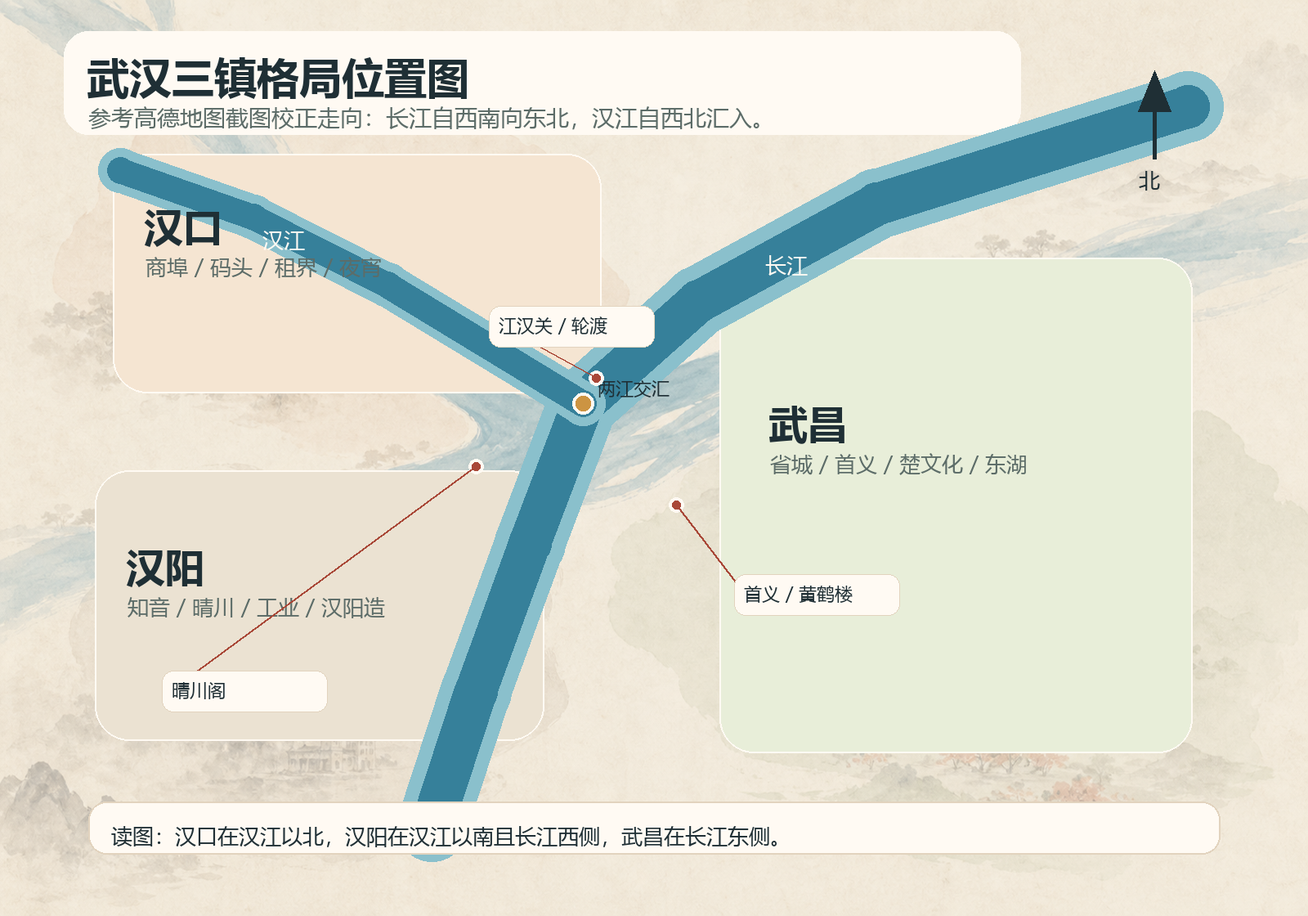
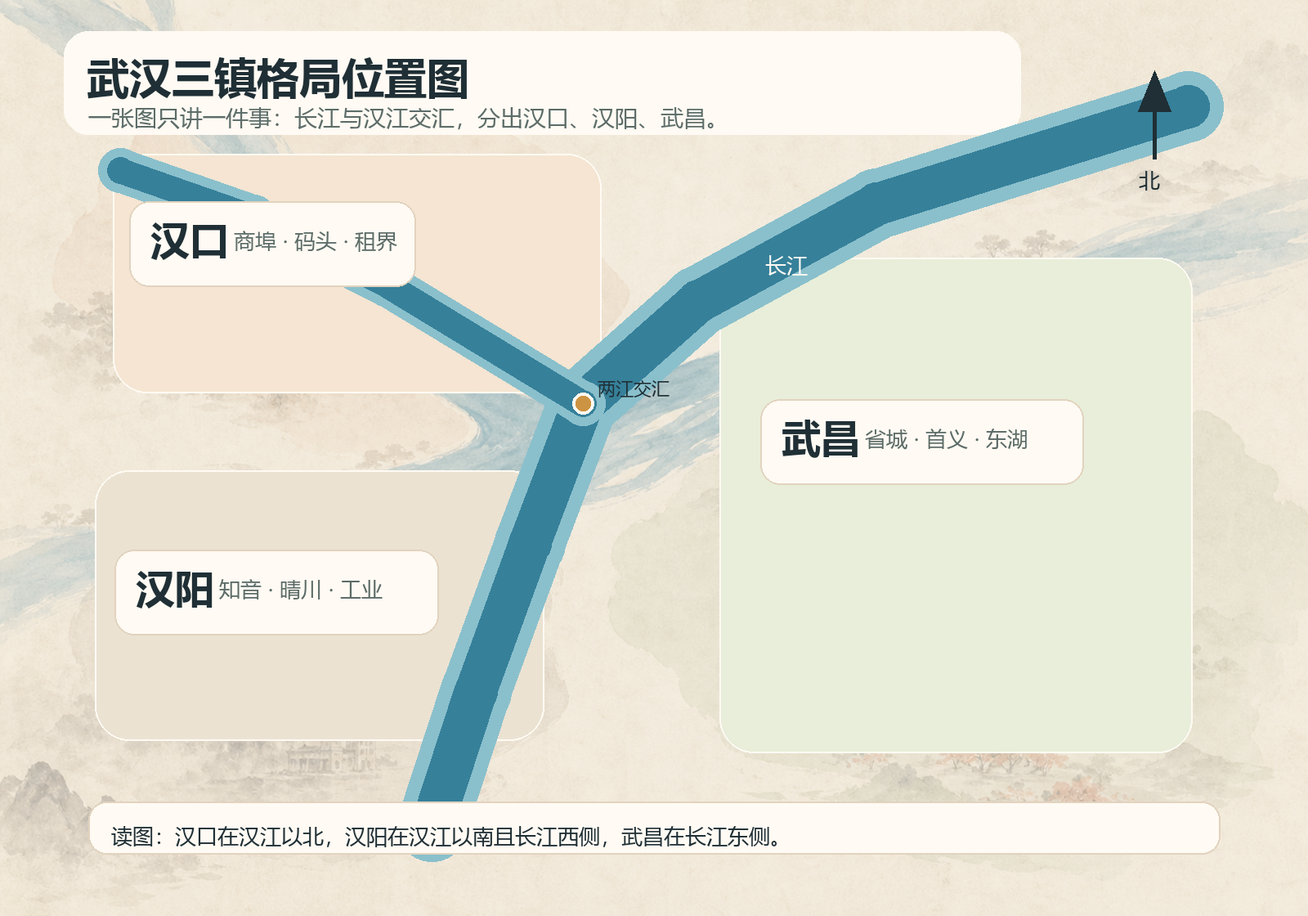
Prepare Wuhan guide v1

diff --git a/index.html b/index.html
@@ -19,7 +19,7 @@
     h1{font-size:clamp(42px,7vw,78px);line-height:1.02;letter-spacing:-.06em;margin:18px 0;color:#15262c}h2{font-size:clamp(30px,4vw,50px);line-height:1.12;letter-spacing:-.04em;margin:0 0 12px}h3{font-size:24px;line-height:1.3;margin:0 0 10px}h4{font-size:18px;margin:0 0 8px}p{margin:0 0 14px}.lead{font-size:18px;color:#43514e;max-width:760px}.muted{color:var(--muted)}
     .eyebrow{display:inline-flex;gap:8px;border-radius:999px;padding:8px 12px;background:rgba(75,104,79,.1);border:1px solid rgba(75,104,79,.2);color:var(--green);font-size:13px;font-weight:800;letter-spacing:.12em;text-transform:uppercase}.tag{display:inline-flex;gap:6px;border-radius:999px;padding:5px 10px;background:rgba(169,72,56,.08);border:1px solid rgba(169,72,56,.18);color:var(--red);font-size:12px;font-weight:800;margin-bottom:10px}.chips,.route,.score{display:flex;flex-wrap:wrap;gap:10px}.chip,.route span,.score span{border:1px solid var(--line);background:#fffaf3;border-radius:999px;padding:7px 11px;font-size:13px;color:#56635f}
     .hero{padding:64px 0 46px}.hero-grid{display:grid;grid-template-columns:1.02fr .98fr;gap:32px;align-items:center}.hero-photo{border-radius:34px;overflow:hidden;box-shadow:var(--shadow);border:1px solid var(--line);background:#fffaf3}.hero-photo img{width:100%;height:520px;display:block;object-fit:cover}.caption{font-size:12px;color:#74807c;padding:10px 14px;background:rgba(255,250,243,.94);border-top:1px solid var(--line)}.caption a{color:#2f6f83;border-bottom:1px dotted #2f6f83}
-    .section-head{display:flex;justify-content:space-between;gap:24px;align-items:end;margin-bottom:28px}.section-head p{max-width:700px;color:#55635f;margin:0}.grid-3{display:grid;grid-template-columns:repeat(3,1fr);gap:18px}.grid-2{display:grid;grid-template-columns:repeat(2,1fr);gap:18px}.card,.photo-card,.story-card,.sources-wall,.gift-card{background:rgba(255,250,243,.88);border:1px solid var(--line);border-radius:var(--r);box-shadow:var(--shadow)}.card{padding:22px}.photo-card{overflow:hidden}.photo-card img{width:100%;height:260px;display:block;object-fit:cover;background:#eadfcf}.photo-card.tall img{height:420px}.photo-card.small img{height:220px}.photo-body{padding:16px 18px}.photo-body p{color:#53615e}.photo-kicker{font-size:12px;font-weight:900;color:var(--red);letter-spacing:.12em;text-transform:uppercase;margin-bottom:6px}
+    .section-head{display:flex;justify-content:space-between;gap:24px;align-items:end;margin-bottom:28px}.section-head p{max-width:700px;color:#55635f;margin:0}.grid-3{display:grid;grid-template-columns:repeat(3,1fr);gap:18px}.grid-2{display:grid;grid-template-columns:repeat(2,1fr);gap:18px}.card,.photo-card,.story-card,.sources-wall,.gift-card{background:rgba(255,250,243,.88);border:1px solid var(--line);border-radius:var(--r);box-shadow:var(--shadow)}.card{padding:22px}.photo-card{overflow:hidden}.photo-card img{width:100%;height:260px;display:block;object-fit:cover;background:#eadfcf}.photo-card.tall img{height:420px}.photo-card.small img{height:220px}.origin-map{max-width:1040px;margin:0 auto}.photo-body{padding:16px 18px}.photo-body p{color:#53615e}.photo-kicker{font-size:12px;font-weight:900;color:var(--red);letter-spacing:.12em;text-transform:uppercase;margin-bottom:6px}.town-heading{display:flex;align-items:center;gap:10px;margin-bottom:12px}.town-heading span{display:inline-flex;align-items:center;justify-content:center;min-width:62px;border-radius:999px;padding:6px 12px;color:#fff;font-size:16px;font-weight:900}.town-heading strong{font-size:24px;line-height:1.2}.hankou-tone span{background:#a94838}.wuchang-tone span{background:#2f6f83}.hanyang-tone span{background:#4b684f}
     .source-inline{display:inline-block;position:relative;margin-left:5px;color:#87928e;font-size:12px;cursor:pointer}.source-inline:hover .source-pop{display:block}.source-pop{display:none;position:absolute;z-index:30;left:0;top:22px;width:min(320px,82vw);background:#fffaf2;border:1px solid #e8d7bf;border-radius:14px;box-shadow:0 16px 34px rgba(40,29,14,.16);padding:12px;font-size:12px;color:#4d5a57;line-height:1.55}.source-pop a,.ref a,.source-list a{color:#2f6f83;text-decoration:underline;text-underline-offset:3px}
     details.ref{margin-top:12px;font-size:12px;color:#7d8783}details.ref summary{display:inline-flex;gap:6px;list-style:none;cursor:pointer;border-bottom:1px dotted #9ba6a1}details.ref summary::-webkit-details-marker{display:none}details.ref div{margin-top:8px;padding:10px;border-radius:14px;background:#fff5e8;border:1px solid #ead8c0;color:#53615e}
     .map-visual{height:430px;border-radius:var(--r);overflow:hidden;border:1px solid var(--line);background:#f4e8d6;position:relative;box-shadow:var(--shadow)}.river{position:absolute;border-radius:999px;background:linear-gradient(90deg,#2f6f83,#9bc7cf);opacity:.86;filter:drop-shadow(0 10px 18px rgba(47,111,131,.18))}.river.yangtze{width:760px;height:70px;left:-90px;top:236px;transform:rotate(-10deg)}.river.han{width:420px;height:50px;left:152px;top:70px;transform:rotate(42deg);opacity:.78}.town-label{position:absolute;min-width:138px;background:rgba(255,250,243,.86);border:1px solid rgba(229,213,191,.94);border-radius:20px;padding:12px 14px;box-shadow:0 12px 30px rgba(48,34,18,.13)}.town-label b{font-size:22px}.town-label span{display:block;font-size:12px;color:#66726e;line-height:1.45}.hankou{left:52px;top:82px}.hanyang{left:76px;bottom:72px}.wuchang{right:48px;bottom:72px}.map-note{position:absolute;left:18px;right:18px;bottom:18px;background:rgba(255,250,243,.86);border:1px solid var(--line);border-radius:16px;padding:10px 12px;font-size:12px;color:#66726e}
@@ -38,23 +38,22 @@
   <main id="top">
     <section class="hero"><div class="container hero-grid">
       <div><span class="eyebrow">For Eason · Wuhan 2.5 days</span><h1>武汉不是景点城市，<br>它要按江、街、早饭和三镇来读。</h1><p class="lead">这版把 AI 插画换成了<strong>线上可核验实图</strong>：建筑、湖景、博物馆优先使用 Wikimedia Commons / 官方资料，美食图优先使用武汉市政府转载的长江日报图源。主体仍然是讲解，图片负责让页面不再寡淡。</p><div class="chips"><span class="chip">6/26 午夜到</span><span class="chip">6/27–6/28 自由</span><span class="chip">6/29 下午参会</span><span class="chip">6/30 中午返程</span><span class="chip">实图优先，不靠 AI 猜</span></div></div>
-      <figure class="hero-photo"><img referrerpolicy="no-referrer" decoding="async" loading="eager" src="https://upload.wikimedia.org/wikipedia/commons/thumb/9/96/%E6%B1%9F%E6%B1%89%E5%85%B3%E6%AD%A3%E7%AB%8B%E9%9D%A2%E4%BE%A7%E5%90%912023.4_%28cropped%29.jpg/900px-%E6%B1%9F%E6%B1%89%E5%85%B3%E6%AD%A3%E7%AB%8B%E9%9D%A2%E4%BE%A7%E5%90%912023.4_%28cropped%29.jpg" alt="武汉江汉关大楼正立面侧向照片"><figcaption class="caption">主视觉：江汉关大楼，汉口开埠和近代商埠记忆的入口。图源：Wikimedia Commons / <a href="https://zh.wikipedia.org/wiki/%E6%B1%9F%E6%B1%89%E5%85%B3%E5%A4%A7%E6%A5%BC" target="_blank">江汉关大楼条目</a></figcaption></figure>
+      <figure class="hero-photo"><img referrerpolicy="no-referrer" decoding="async" loading="eager" src="assets/images/local-hankou-customs.jpg" alt="武汉江汉关大楼正立面侧向照片"><figcaption class="caption">主视觉：江汉关大楼，汉口开埠和近代商埠记忆的入口。图源：Wikimedia Commons / <a href="https://zh.wikipedia.org/wiki/%E6%B1%9F%E6%B1%89%E5%85%B3%E5%A4%A7%E6%A5%BC" target="_blank">江汉关大楼条目</a></figcaption></figure>
     </div></section>
 
-    <section id="origin"><div class="container"><div class="section-head"><div><span class="tag">01 · 城市渊源</span><h2>先理解武汉为什么会是“三镇”。</h2></div><p>武汉不是天然的单中心城市。长江与汉江交汇，把它切成武昌、汉口、汉阳三个性格不同的城市空间。<span class="source-inline">资料<span class="source-pop">武汉市地方志工作办公室《武汉市情》把武汉描述为长江与汉江交汇形成三镇鼎立格局。<br><a href="https://dfz.wuhan.gov.cn/sqgk/whsq/" target="_blank">查看地方志原文</a></span></span></p></div>
-      <div class="grid-2"><figure class="photo-card food-map"><img decoding="async" loading="lazy" src="assets/images/wuhan-three-towns-map.png" alt="武汉三镇格局位置图，标出长江、汉江、两江交汇、汉口、汉阳、武昌、江汉关武汉关码头、晴川阁方向和首义黄鹤楼方向"><figcaption class="caption">三镇格局位置图：按真实经纬度简化投影，重点看长江、汉江如何分出汉口、汉阳、武昌。</figcaption></figure>
-      <div class="grid-3"><article class="photo-card small"><img referrerpolicy="no-referrer" decoding="async" loading="lazy" src="https://upload.wikimedia.org/wikipedia/commons/thumb/6/62/%E6%B1%9F%E6%B1%89%E5%85%B3%E5%A4%A7%E6%A5%BC%E5%85%A8%E6%99%AF_20201216.jpg/900px-%E6%B1%9F%E6%B1%89%E5%85%B3%E5%A4%A7%E6%A5%BC%E5%85%A8%E6%99%AF_20201216.jpg" alt="江汉关大楼全景"><div class="photo-body"><div class="photo-kicker">汉口</div><h4>商埠、码头、近代建筑</h4><p>从江汉关开始理解“大汉口”。</p></div></article><article class="photo-card small"><img referrerpolicy="no-referrer" decoding="async" loading="lazy" src="https://upload.wikimedia.org/wikipedia/commons/thumb/b/b1/Revolution_of_1911_Museum.jpg/900px-Revolution_of_1911_Museum.jpg" alt="辛亥革命博物院红楼"><div class="photo-body"><div class="photo-kicker">武昌</div><h4>省城、首义、楚文化</h4><p>用红楼、省博和东湖读武昌。</p></div></article><article class="photo-card small"><img referrerpolicy="no-referrer" decoding="async" loading="lazy" src="https://upload.wikimedia.org/wikipedia/commons/thumb/6/6b/Lute_Platform.jpg/900px-Lute_Platform.jpg" alt="古琴台"><div class="photo-body"><div class="photo-kicker">汉阳</div><h4>知音、古典、工业转身</h4><p>古琴台只是汉阳故事的一半。</p></div></article></div></div></div></section>
+    <section id="origin"><div class="container"><div class="section-head"><div><span class="tag">01 · 城市渊源</span><h2>先理解武汉为什么会是“三镇”。</h2></div><p>武汉不是天然的单中心城市。长江自西南向东北穿城而过，汉江从西北汇入长江，把城市空间分成汉口、汉阳、武昌三种不同的历史性格。<span class="source-inline">资料<span class="source-pop">武汉市地方志编纂办公室《武汉概貌》提到，武汉三镇格局与长江、汉江交汇密切相关。<br><a href="https://dfz.wuhan.gov.cn/sqgk/whsq/" target="_blank">查看地方志原文</a></span></span></p></div>
+      <figure class="photo-card origin-map food-map"><img decoding="async" loading="lazy" src="assets/images/wuhan-three-towns-map.png" alt="武汉三镇格局位置水墨示意图"><figcaption class="caption">三镇格局位置图：只讲两江如何分出汉口、汉阳、武昌；具体景点放到后面的三镇速读和历史建筑里。</figcaption></figure></div></section>
 
     <section id="towns"><div class="container"><div class="section-head"><div><span class="tag">02 · 三镇速读</span><h2>三镇不是三个区，是三种武汉历史。</h2></div><p>旅行时不要把武汉当成一个大商圈来逛。你要先判断自己今天想看哪种武汉：商贸武汉、首义武汉，还是工业武汉。</p></div>
-<div class="grid-3"><article class="photo-card"><img referrerpolicy="no-referrer" decoding="async" loading="lazy" src="https://upload.wikimedia.org/wikipedia/commons/thumb/9/96/%E6%B1%9F%E6%B1%89%E5%85%B3%E6%AD%A3%E7%AB%8B%E9%9D%A2%E4%BE%A7%E5%90%912023.4_%28cropped%29.jpg/900px-%E6%B1%9F%E6%B1%89%E5%85%B3%E6%AD%A3%E7%AB%8B%E9%9D%A2%E4%BE%A7%E5%90%912023.4_%28cropped%29.jpg" alt="江汉关大楼，汉口商埠和码头记忆的代表建筑"><div class="photo-body"><h3>汉口看商贸</h3><p>老汉口 Citywalk、江汉关、轮渡、万松园。它告诉你武汉为什么有强烈的码头与夜生活气质。</p><details class="ref"><summary>资料 / 地图</summary><div><a href="https://www.amap.com/search?query=%E6%B1%9F%E6%B1%89%E5%85%B3" target="_blank">江汉关地图</a> · <a href="https://www.amap.com/search?query=%E9%BB%8E%E9%BB%84%E9%99%82%E8%B7%AF" target="_blank">黎黄陂路地图</a></div></details></div></article><article class="photo-card"><img referrerpolicy="no-referrer" decoding="async" loading="lazy" src="https://upload.wikimedia.org/wikipedia/commons/thumb/5/58/VM_4742_Hubei_Provincial_Museum_-_grounds.jpg/900px-VM_4742_Hubei_Provincial_Museum_-_grounds.jpg" alt="湖北省博物馆外景，武昌文脉和楚文化的代表地点"><div class="photo-body"><h3>武昌看文脉</h3><p>粮道街过早、辛亥革命博物院、省博、东湖。它告诉你武汉为何有历史重量，又有湖边生活感。</p><details class="ref"><summary>预约 / 开放</summary><div><a href="https://www.1911museum.cn/list_37.html" target="_blank">辛亥革命博物院</a> · <a href="http://www.hbww.org.cn/fuwu/index.html" target="_blank">湖北省博物馆服务页</a></div></details></div></article><article class="photo-card"><img referrerpolicy="no-referrer" decoding="async" loading="lazy" src="https://upload.wikimedia.org/wikipedia/commons/thumb/6/6b/Lute_Platform.jpg/900px-Lute_Platform.jpg" alt="古琴台，汉阳知音文化的代表地点"><div class="photo-body"><h3>汉阳看转身</h3><p>晴川阁、古琴台、归元寺、张之洞与武汉博物馆。它补上武汉古典山水和近代工业的一面。</p><details class="ref"><summary>继续了解</summary><div><a href="https://www.amap.com/search?query=%E6%99%B4%E5%B7%9D%E9%98%81" target="_blank">晴川阁</a> · <a href="https://www.amap.com/search?query=%E5%BC%A0%E4%B9%8B%E6%B4%9E%E4%B8%8E%E6%AD%A6%E6%B1%89%E5%8D%9A%E7%89%A9%E9%A6%86" target="_blank">张之洞与武汉博物馆</a></div></details></div></article></div></div></section>
+<div class="grid-3"><article class="photo-card"><img referrerpolicy="no-referrer" decoding="async" loading="eager" src="assets/images/local-hankou-customs.jpg" alt="江汉关大楼，汉口商埠和码头记忆的代表建筑"><div class="photo-body"><div class="town-heading hankou-tone"><span>汉口</span><strong>看商贸</strong></div><p>老汉口 Citywalk、江汉关、轮渡、万松园。它告诉你武汉为什么有强烈的码头与夜生活气质。</p><details class="ref"><summary>资料 / 地图</summary><div><a href="https://www.amap.com/search?query=%E6%B1%9F%E6%B1%89%E5%85%B3" target="_blank">江汉关地图</a> · <a href="https://www.amap.com/search?query=%E9%BB%8E%E9%BB%84%E9%99%82%E8%B7%AF" target="_blank">黎黄陂路地图</a></div></details></div></article><article class="photo-card"><img referrerpolicy="no-referrer" decoding="async" loading="eager" src="assets/images/town-wuchang-museum.jpg" alt="湖北省博物馆外景，武昌文脉和楚文化的代表地点"><div class="photo-body"><div class="town-heading wuchang-tone"><span>武昌</span><strong>看文脉</strong></div><p>粮道街过早、辛亥革命博物院、省博、东湖。它告诉你武汉为何有历史重量，又有湖边生活感。</p><details class="ref"><summary>预约 / 开放</summary><div><a href="https://www.1911museum.cn/list_37.html" target="_blank">辛亥革命博物院</a> · <a href="http://www.hbww.org.cn/fuwu/index.html" target="_blank">湖北省博物馆服务页</a></div></details></div></article><article class="photo-card"><img referrerpolicy="no-referrer" decoding="async" loading="eager" src="assets/images/town-hanyang-lute-platform.jpg" alt="古琴台，汉阳知音文化的代表地点"><div class="photo-body"><div class="town-heading hanyang-tone"><span>汉阳</span><strong>看转身</strong></div><p>晴川阁、古琴台、归元寺、张之洞与武汉博物馆。它补上武汉古典山水和近代工业的一面。</p><details class="ref"><summary>继续了解</summary><div><a href="https://www.amap.com/search?query=%E6%99%B4%E5%B7%9D%E9%98%81" target="_blank">晴川阁</a> · <a href="https://www.amap.com/search?query=%E5%BC%A0%E4%B9%8B%E6%B4%9E%E4%B8%8E%E6%AD%A6%E6%B1%89%E5%8D%9A%E7%89%A9%E9%A6%86" target="_blank">张之洞与武汉博物馆</a></div></details></div></article></div></div></section>
 
     <section id="stories"><div class="container"><div class="section-head"><div><span class="tag">03 · 历史建筑</span><h2>用三条线看懂武汉。</h2></div><p>这一页不是百科，而是旅行视角：每一镇都用“怎么来的—发生了什么—看哪些建筑—怎么走”来讲。</p></div><div class="story-tabs"><button class="tab-btn active" data-tab="hankou">汉口篇</button><button class="tab-btn" data-tab="wuchang">武昌篇</button><button class="tab-btn" data-tab="hanyang">汉阳篇</button></div>
       <div class="tab-panel active" id="hankou"><div class="story-shell"><article class="story-card"><h3>汉口：从码头到“大汉口”</h3><p>汉口的底色不是宫殿，而是船、货、钱庄、洋行、街市和夜生活。你在江汉关附近看到的近代建筑，不只是“好拍”，而是在提醒你：汉口曾经是内陆对外贸易和商业流通的窗口。</p><div class="timeline"><div class="time-item"><b>水路成镇</b><span>汉口因汉江入长江之口而兴，商业和交通功能先于旅游功能出现。</span></div><div class="time-item"><b>1861</b><span>汉口开埠，近代海关与租界建筑逐渐形成。</span></div><div class="time-item"><b>1924</b><span>江汉关大楼落成，成为老汉口商埠时代的标志性建筑。</span></div><div class="time-item"><b>1927</b><span>八七会议在汉口秘密召开，商业城市也成为近代政治风暴现场。</span></div></div><div class="building-grid"><div class="building"><em>商埠入口</em><h4>江汉关</h4><p>看汉口开埠、海关和对外贸易。傍晚可以从这里接轮渡。</p></div><div class="building"><em>租界肌理</em><h4>黎黄陂路 / 巴公房子</h4><p>不要只逛江汉路。这里更像老汉口的街巷标本，适合慢走。</p></div><div class="building"><em>仓储物流</em><h4>平和打包厂</h4><p>说明汉口的繁荣不仅是老楼，还有货物、码头、仓储与加工。</p></div></div><div class="callout"><h4>推荐走法</h4><p>黎黄陂路 → 同兴里/泰兴里 → 巴公房子 → 江汉关 → 武汉关码头 → 普通轮渡 → 晚上万松园。</p></div></article><div class="mosaic"><figure class="photo-card"><img referrerpolicy="no-referrer" decoding="async" loading="lazy" src="https://upload.wikimedia.org/wikipedia/commons/thumb/2/2b/%E6%B1%9F%E6%B1%89%E5%85%B3%E5%A4%A7%E6%A5%BC%E5%A4%9C%E6%99%AF20201212.jpg/900px-%E6%B1%9F%E6%B1%89%E5%85%B3%E5%A4%A7%E6%A5%BC%E5%A4%9C%E6%99%AF20201212.jpg" alt="江汉关大楼夜景"><figcaption class="caption">江汉关夜景。图源：Wikimedia Commons</figcaption></figure><div class="mosaic-stack"><figure class="photo-card small"><img referrerpolicy="no-referrer" decoding="async" loading="lazy" src="https://upload.wikimedia.org/wikipedia/commons/thumb/9/90/A_Postcard_of_Wuhan_Bund_from_1931.jpg/900px-A_Postcard_of_Wuhan_Bund_from_1931.jpg" alt="1931年汉口江滩明信片"><figcaption class="caption">1931 年汉口江滩明信片，可见江汉关。图源：Wikimedia Commons</figcaption></figure><figure class="photo-card small"><img referrerpolicy="no-referrer" decoding="async" loading="lazy" src="https://upload.wikimedia.org/wikipedia/commons/thumb/6/62/%E6%B1%9F%E6%B1%89%E5%85%B3%E5%A4%A7%E6%A5%BC%E5%85%A8%E6%99%AF_20201216.jpg/900px-%E6%B1%9F%E6%B1%89%E5%85%B3%E5%A4%A7%E6%A5%BC%E5%85%A8%E6%99%AF_20201216.jpg" alt="江汉关大楼全景"><figcaption class="caption">江汉关大楼全景。图源：Wikimedia Commons</figcaption></figure></div></div></div></div>
       <div class="tab-panel" id="wuchang"><div class="story-shell"><article class="story-card"><h3>武昌：省城文脉与辛亥首义</h3><p>如果汉口是商人和码头，武昌就是省城、学府、官署、寺观和革命现场。你在武昌最该看的不是“打卡点数量”，而是红楼、省博和东湖如何把历史、文物和城市生活接在一起。</p><div class="timeline"><div class="time-item"><b>古城文脉</b><span>黄鹤楼是文化符号；粮道街和大成路是老城生活。</span></div><div class="time-item"><b>1911</b><span>武昌起义让这里成为“首义之城”的关键现场。</span></div><div class="time-item"><b>今天</b><span>省博、大学、东湖和老街早餐，共同构成武昌的文化气质。</span></div></div><div class="building-grid"><div class="building"><em>首义现场</em><h4>红楼 / 辛亥革命博物院</h4><p>适合补上武昌的近代政治史。当前参观须知以官网为准。</p></div><div class="building"><em>楚文化</em><h4>湖北省博物馆</h4><p>热天最值得去的室内文化点：曾侯乙编钟、越王勾践剑、楚国八百年。</p></div><div class="building"><em>城市后花园</em><h4>东湖</h4><p>不要中午暴走。傍晚选听涛或一小段绿道。</p></div></div><div class="callout"><h4>推荐走法</h4><p>粮道街/大成路过早 → 红楼或省博 → 酒店/咖啡馆避暑 → 东湖傍晚。</p></div></article><div class="mosaic"><figure class="photo-card"><img referrerpolicy="no-referrer" decoding="async" loading="lazy" src="https://upload.wikimedia.org/wikipedia/commons/thumb/7/76/Bianzhong_of_Marquis_Yi_of_Zeng_Wuhan.jpg/900px-Bianzhong_of_Marquis_Yi_of_Zeng_Wuhan.jpg" alt="曾侯乙编钟"><figcaption class="caption">曾侯乙编钟，湖北省博物馆核心文物之一。图源：Wikimedia Commons</figcaption></figure><div class="mosaic-stack"><figure class="photo-card small"><img referrerpolicy="no-referrer" decoding="async" loading="lazy" src="https://upload.wikimedia.org/wikipedia/commons/thumb/b/b1/Revolution_of_1911_Museum.jpg/900px-Revolution_of_1911_Museum.jpg" alt="辛亥革命博物院"><figcaption class="caption">辛亥革命博物院 / 红楼。图源：Wikimedia Commons</figcaption></figure><figure class="photo-card small"><img referrerpolicy="no-referrer" decoding="async" loading="lazy" src="https://upload.wikimedia.org/wikipedia/commons/thumb/8/88/ConcertGroupPano.jpg/960px-ConcertGroupPano.jpg" alt="湖北省博物馆编钟演出"><figcaption class="caption">湖北省博物馆编钟演出。图源：Wikimedia Commons</figcaption></figure></div></div></div></div>
-      <div class="tab-panel" id="hanyang"><div class="story-shell"><article class="story-card"><h3>汉阳：知音、晴川与汉阳造</h3><p>汉阳不是这次吃喝的主战场，但很适合理解武汉的另一面：一边是“高山流水遇知音”的古典记忆，一边是张之洞、汉阳铁厂和汉阳造的近代工业记忆。</p><div class="timeline"><div class="time-item"><b>古典</b><span>晴川阁、古琴台、归元寺，构成汉阳的山水与宗教线索。</span></div><div class="time-item"><b>1890s</b><span>张之洞主持的洋务工业，把汉阳推到近代工业史前台。</span></div><div class="time-item"><b>今天</b><span>晴川阁看两江对望；张之洞与武汉博物馆看工业武汉。</span></div></div><div class="building-grid"><div class="building"><em>江城对望</em><h4>晴川阁</h4><p>从汉阳看长江和武昌。</p></div><div class="building"><em>知音文化</em><h4>古琴台</h4><p>伯牙子期的故事，是汉阳最古典的一层记忆。</p></div><div class="building"><em>工业武汉</em><h4>张之洞与武汉博物馆</h4><p>看汉阳铁厂、汉阳造和武汉近代工业的脉络。</p></div></div><div class="callout"><h4>推荐走法</h4><p>晴川阁 → 古琴台 → 归元寺 → 张之洞与武汉博物馆。时间短则作为备选半日线。</p></div></article><div class="mosaic"><figure class="photo-card"><img referrerpolicy="no-referrer" decoding="async" loading="lazy" src="https://upload.wikimedia.org/wikipedia/commons/thumb/6/6b/Lute_Platform.jpg/900px-Lute_Platform.jpg" alt="古琴台"><figcaption class="caption">古琴台。图源：Wikimedia Commons</figcaption></figure><div class="mosaic-stack"><figure class="photo-card small"><img referrerpolicy="no-referrer" decoding="async" loading="lazy" src="https://upload.wikimedia.org/wikipedia/commons/thumb/9/9f/%E6%AD%A6%E6%B1%89%E5%BD%92%E5%85%83%E7%A6%85%E5%AF%BA.JPG/900px-%E6%AD%A6%E6%B1%89%E5%BD%92%E5%85%83%E7%A6%85%E5%AF%BA.JPG" alt="归元禅寺"><figcaption class="caption">归元禅寺。图源：Wikimedia Commons</figcaption></figure><figure class="photo-card small"><img referrerpolicy="no-referrer" decoding="async" loading="lazy" src="https://upload.wikimedia.org/wikipedia/commons/thumb/f/fb/%E5%BD%92%E5%85%83%E5%AF%BA_20250206.jpg/900px-%E5%BD%92%E5%85%83%E5%AF%BA_20250206.jpg" alt="归元寺入口"><figcaption class="caption">归元寺入口。图源：Wikimedia Commons</figcaption></figure></div></div></div></div>
+      <div class="tab-panel" id="hanyang"><div class="story-shell"><article class="story-card"><h3>汉阳：知音、晴川与汉阳造</h3><p>汉阳不是这次吃喝的主战场，但很适合理解武汉的另一面：一边是“高山流水遇知音”的古典记忆，一边是张之洞、汉阳铁厂和汉阳造的近代工业记忆。</p><div class="timeline"><div class="time-item"><b>古典</b><span>晴川阁、古琴台、归元寺，构成汉阳的山水与宗教线索。</span></div><div class="time-item"><b>1890s</b><span>张之洞主持的洋务工业，把汉阳推到近代工业史前台。</span></div><div class="time-item"><b>今天</b><span>晴川阁看两江对望；张之洞与武汉博物馆看工业武汉。</span></div></div><div class="building-grid"><div class="building"><em>江城对望</em><h4>晴川阁</h4><p>从汉阳看长江和武昌。</p></div><div class="building"><em>知音文化</em><h4>古琴台</h4><p>伯牙子期的故事，是汉阳最古典的一层记忆。</p></div><div class="building"><em>工业武汉</em><h4>张之洞与武汉博物馆</h4><p>看汉阳铁厂、汉阳造和武汉近代工业的脉络。</p></div></div><div class="callout"><h4>推荐走法</h4><p>晴川阁 → 古琴台 → 归元寺 → 张之洞与武汉博物馆。时间短则作为备选半日线。</p></div></article><div class="mosaic"><figure class="photo-card"><img referrerpolicy="no-referrer" decoding="async" loading="eager" src="assets/images/town-hanyang-lute-platform.jpg" alt="古琴台"><figcaption class="caption">古琴台。图源：Wikimedia Commons</figcaption></figure><div class="mosaic-stack"><figure class="photo-card small"><img referrerpolicy="no-referrer" decoding="async" loading="lazy" src="https://upload.wikimedia.org/wikipedia/commons/thumb/9/9f/%E6%AD%A6%E6%B1%89%E5%BD%92%E5%85%83%E7%A6%85%E5%AF%BA.JPG/900px-%E6%AD%A6%E6%B1%89%E5%BD%92%E5%85%83%E7%A6%85%E5%AF%BA.JPG" alt="归元禅寺"><figcaption class="caption">归元禅寺。图源：Wikimedia Commons</figcaption></figure><figure class="photo-card small"><img referrerpolicy="no-referrer" decoding="async" loading="lazy" src="https://upload.wikimedia.org/wikipedia/commons/thumb/f/fb/%E5%BD%92%E5%85%83%E5%AF%BA_20250206.jpg/900px-%E5%BD%92%E5%85%83%E5%AF%BA_20250206.jpg" alt="归元寺入口"><figcaption class="caption">归元寺入口。图源：Wikimedia Commons</figcaption></figure></div></div></div></div>
     </div></section>
 
-    <section id="local"><div class="container"><div class="section-head"><div><span class="tag">04 · 风土人情</span><h2>武汉最值得体验的是生活，不是景点。</h2></div><p>把重点放在过早、轮渡、老汉口、夜宵和东湖傍晚。它们不是“网红路线”，而是能把武汉城市性格串起来的体验卡。</p></div><div class="experience-grid"><article class="photo-card xp-card"><img referrerpolicy="no-referrer" decoding="async" loading="lazy" src="https://news.cjn.cn/whpd/yw_19947/202311/W020231111468654173569.jpeg" alt="武汉桃花岛过早豆皮与热干面"><div class="photo-body"><h3>去过早，不只是吃早餐</h3><p>热干面、三鲜豆皮、面窝、糊汤粉、蛋酒，构成武汉清晨的碳水宇宙。第一次来建议去粮道街/大成路，想要汉口生活感则看山海关路、沈阳路、水塔街。</p><div class="score"><span>武汉味 5/5</span><span>早上去</span><span>别睡到中午</span></div><details class="ref"><summary>图源 / 地图</summary><div>图源：武汉市政府门户网站转载长江日报《武汉有座桃花岛》。<br><a href="https://www.amap.com/search?query=%E7%B2%AE%E9%81%93%E8%A1%97" target="_blank">粮道街</a> · <a href="https://www.amap.com/search?query=%E5%B1%B1%E6%B5%B7%E5%85%B3%E8%B7%AF%20%E6%AD%A6%E6%B1%89" target="_blank">山海关路</a></div></details></div></article><article class="photo-card xp-card"><img referrerpolicy="no-referrer" decoding="async" loading="lazy" src="https://upload.wikimedia.org/wikipedia/commons/thumb/7/7a/Wuhan-Donghu-dike-0375.jpg/900px-Wuhan-Donghu-dike-0375.jpg" alt="东湖堤岸"><div class="photo-body"><h3>坐普通轮渡，看江城；傍晚再去东湖</h3><p>轮渡把“江城”具象化；东湖则适合傍晚，不要中午暴走。目的不是刷完景点，而是理解武汉人的水边生活。</p><div class="score"><span>江城感 5/5</span><span>傍晚最佳</span><span>少晒</span></div><details class="ref"><summary>地图 / 官网</summary><div><a href="https://www.amap.com/search?query=%E6%AD%A6%E6%B1%89%E5%85%B3%E7%A0%81%E5%A4%B4" target="_blank">武汉关码头</a> · <a href="https://www.whdonghu.gov.cn/" target="_blank">东湖官网</a></div></details></div></article><article class="photo-card xp-card"><img referrerpolicy="no-referrer" decoding="async" loading="lazy" src="https://upload.wikimedia.org/wikipedia/commons/thumb/9/96/%E6%B1%9F%E6%B1%89%E5%85%B3%E6%AD%A3%E7%AB%8B%E9%9D%A2%E4%BE%A7%E5%90%912023.4_%28cropped%29.jpg/900px-%E6%B1%9F%E6%B1%89%E5%85%B3%E6%AD%A3%E7%AB%8B%E9%9D%A2%E4%BE%A7%E5%90%912023.4_%28cropped%29.jpg" alt="老汉口江汉关"><div class="photo-body"><h3>走老汉口，不要只逛江汉路</h3><p>江汉路是商业街，老汉口才是肌理。黎黄陂路、同兴里、巴公房子、平和打包厂和江汉关串起来，会比单独打卡黄鹤楼更有城市记忆。</p><div class="score"><span>风貌 5/5</span><span>适合拍照</span><span>下午避暑后去</span></div></div></article><article class="photo-card xp-card"><img referrerpolicy="no-referrer" decoding="async" loading="lazy" src="https://upload.wikimedia.org/wikipedia/commons/thumb/1/19/VM_4698_Wuhan_Donghu_Liyuan_Park_swimming_area.jpg/900px-VM_4698_Wuhan_Donghu_Liyuan_Park_swimming_area.jpg" alt="东湖梨园公园泳区"><div class="photo-body"><h3>东湖不是景点，是城市后花园</h3><p>东湖不要贪多。6 月下旬中午热，选傍晚听涛、湖边咖啡或短骑就够了。目的不是刷完东湖，而是理解武汉人为什么需要这片湖。</p><div class="score"><span>舒适 4/5</span><span>傍晚去</span><span>中午避开</span></div><details class="ref"><summary>东湖官网</summary><div><a href="https://www.whdonghu.gov.cn/" target="_blank">武汉东湖生态旅游风景区</a></div></details></div></article></div></div></section>
+    <section id="local"><div class="container"><div class="section-head"><div><span class="tag">04 · 风土人情</span><h2>武汉最值得体验的是生活，不是景点。</h2></div><p>把重点放在过早、轮渡、老汉口、夜宵和东湖傍晚。它们不是“网红路线”，而是能把武汉城市性格串起来的体验卡。</p></div><div class="experience-grid"><article class="photo-card xp-card"><img referrerpolicy="no-referrer" decoding="async" loading="eager" src="assets/images/local-breakfast.jpg" alt="武汉桃花岛过早豆皮与热干面"><div class="photo-body"><h3>去过早，不只是吃早餐</h3><p>热干面、三鲜豆皮、面窝、糊汤粉、蛋酒，构成武汉清晨的碳水宇宙。第一次来建议去粮道街/大成路，想要汉口生活感则看山海关路、沈阳路、水塔街。</p><div class="score"><span>武汉味 5/5</span><span>早上去</span><span>别睡到中午</span></div><details class="ref"><summary>图源 / 地图</summary><div>图源：武汉市政府门户网站转载长江日报《武汉有座桃花岛》。<br><a href="https://www.amap.com/search?query=%E7%B2%AE%E9%81%93%E8%A1%97" target="_blank">粮道街</a> · <a href="https://www.amap.com/search?query=%E5%B1%B1%E6%B5%B7%E5%85%B3%E8%B7%AF%20%E6%AD%A6%E6%B1%89" target="_blank">山海关路</a></div></details></div></article><article class="photo-card xp-card"><img referrerpolicy="no-referrer" decoding="async" loading="eager" src="assets/images/local-river-donghu.jpg" alt="东湖堤岸"><div class="photo-body"><h3>坐普通轮渡，看江城；傍晚再去东湖</h3><p>轮渡把“江城”具象化；东湖则适合傍晚，不要中午暴走。目的不是刷完景点，而是理解武汉人的水边生活。</p><div class="score"><span>江城感 5/5</span><span>傍晚最佳</span><span>少晒</span></div><details class="ref"><summary>地图 / 官网</summary><div><a href="https://www.amap.com/search?query=%E6%AD%A6%E6%B1%89%E5%85%B3%E7%A0%81%E5%A4%B4" target="_blank">武汉关码头</a> · <a href="https://www.whdonghu.gov.cn/" target="_blank">东湖官网</a></div></details></div></article><article class="photo-card xp-card"><img referrerpolicy="no-referrer" decoding="async" loading="eager" src="assets/images/local-hankou-customs.jpg" alt="老汉口江汉关"><div class="photo-body"><h3>走老汉口，不要只逛江汉路</h3><p>江汉路是商业街，老汉口才是肌理。黎黄陂路、同兴里、巴公房子、平和打包厂和江汉关串起来，会比单独打卡黄鹤楼更有城市记忆。</p><div class="score"><span>风貌 5/5</span><span>适合拍照</span><span>下午避暑后去</span></div></div></article><article class="photo-card xp-card"><img referrerpolicy="no-referrer" decoding="async" loading="eager" src="assets/images/local-east-lake.jpg" alt="东湖梨园公园泳区"><div class="photo-body"><h3>东湖不是景点，是城市后花园</h3><p>东湖不要贪多。6 月下旬中午热，选傍晚听涛、湖边咖啡或短骑就够了。目的不是刷完东湖，而是理解武汉人为什么需要这片湖。</p><div class="score"><span>舒适 4/5</span><span>傍晚去</span><span>中午避开</span></div><details class="ref"><summary>东湖官网</summary><div><a href="https://www.whdonghu.gov.cn/" target="_blank">武汉东湖生态旅游风景区</a></div></details></div></article></div></div></section>
 
     <section id="food"><div class="container"><div class="section-head"><div><span class="tag">05 · 小吃街区</span><h2>用吃饭节点，把两天路线串起来。</h2></div><p>这里不做店铺排行榜，只告诉你街区大概在哪里、适合接哪段行程。现场按天气、排队、距离和胃口选店，路线不会乱。</p></div><div class="food-shell"><figure class="photo-card food-map"><img decoding="async" loading="lazy" src="assets/images/wuhan-food-map.png" alt="武汉小吃街区位置图，标出汉口、武昌、汉阳、长江汉江、万松园雪松路、山海关路沈阳路、水塔街江汉路、粮道街大成路和光谷核心商圈"><figcaption class="caption">位置示意：北向上，重点是三镇、水系、光谷方向和小吃街区相对关系，不替代导航。</figcaption></figure><div class="food-copy"><div class="card"><h3>一句话判断</h3><p><strong>汉口吃热闹，武昌吃清晨，光谷只作收尾。</strong> 你现在的行程里，小吃不是附录，而是决定动线的锚点。</p></div><article class="food-card"><small>6/27 晚上主节点</small><h3>万松园 / 雪松路</h3><p>在汉口江汉区，适合湖北菜、小龙虾、夜宵和热闹街区。傍晚江汉关、武汉关码头、普通轮渡之后，用它收尾最顺。</p><div class="chips"><span class="chip">夜宵</span><span class="chip">湖北菜</span><span class="chip">热闹</span></div></article><article class="food-card"><small>汉口过早节点</small><h3>山海关路 / 沈阳路 / 水塔街</h3><p>适合从汉口住宿地出发吃早饭：热干面、豆皮、面窝、糊汤粉、蛋酒。不要迷信单店，早上看翻台快、队伍正常的店就进。</p><div class="chips"><span class="chip">过早</span><span class="chip">汉口生活感</span><span class="chip">6/28 可用</span></div></article><article class="food-card"><small>武昌文化线节点</small><h3>粮道街 / 大成路</h3><p>在武昌老城，适合接首义、省博或东湖。若 6/28 直接走武昌，把过早放这里，比来回跨江更省力。</p><div class="chips"><span class="chip">武昌过早</span><span class="chip">首义</span><span class="chip">省博/东湖</span></div></article><article class="food-card"><small>6/28 入住前节点</small><h3>光谷核心商圈</h3><p>光谷希尔顿周边偏，不建议把吃喝押在酒店附近。晚上先在光谷广场、世界城或光谷天地一带吃完，再去酒店。</p><div class="chips"><span class="chip">晚餐兜底</span><span class="chip">入住前</span><span class="chip">别押酒店周边</span></div></article></div></div><div class="food-route"><div class="card"><h3>6/27 怎么串</h3><p>中午在第一医院附近或万松园方向吃湖北菜；下午休息避暑；傍晚走江汉关和普通轮渡；晚上回万松园/雪松路吃夜宵。</p></div><div class="card"><h3>6/28 怎么串</h3><p>如果从汉口起步，山海关路/水塔街过早后跨江；如果直接走武昌，粮道街/大成路过早后接省博、首义或东湖。晚上先在光谷核心商圈吃完，再去光谷希尔顿。</p></div></div></div></section>
 

diff --git a/tools/generate_three_towns_map.py b/tools/generate_three_towns_map.py
@@ -63,15 +63,6 @@ def zone(draw, box, title, subtitle, fill):
     draw.rounded_rectangle(box, radius=42, fill=fill + (172,), outline=(255, 250, 243, 125), width=2)
 
 
-def small_landmark(draw, lon, lat, text, label_xy):
-    x, y = xy(lon, lat)
-    bx, by = label_xy
-    draw.ellipse((x - 9, y - 9, x + 9, y + 9), fill=COLORS["red"], outline=COLORS["paper"], width=4)
-    draw.line((x, y, bx, by + 15), fill=COLORS["red"], width=2)
-    draw.rounded_rectangle((bx - 12, by - 8, bx + 190, by + 42), radius=14, fill=(255, 250, 243, 210), outline=COLORS["line"], width=1)
-    draw.text((bx, by), text, font=F_TINY, fill=COLORS["ink"])
-
-
 if BG.exists():
     img = Image.open(BG).convert("RGBA").resize((W, H))
     veil = Image.new("RGBA", (W, H), COLORS["bg"] + (102,))
@@ -82,7 +73,7 @@ draw = ImageDraw.Draw(img, "RGBA")
 
 draw.rounded_rectangle((78, 38, 1248, 164), radius=30, fill=(255, 250, 243, 188))
 draw.text((106, 58), "武汉三镇格局位置图", font=F_TITLE, fill=COLORS["ink"])
-draw.text((108, 124), "参考高德地图截图校正走向：长江自西南向东北，汉江自西北汇入。", font=F_SUB, fill=COLORS["muted"])
+draw.text((108, 124), "一张图只讲一件事：长江与汉江交汇，分出汉口、汉阳、武昌。", font=F_SUB, fill=COLORS["muted"])
 
 # Soft town areas, aligned to the real relation of the two rivers.
 zone(draw, (138, 188, 735, 480), "汉口", "商埠 / 码头 / 租界 / 夜宵", COLORS["hankou"])
@@ -119,20 +110,19 @@ draw.text(xy(114.330, 30.604), "长江", font=F_SMALL, fill=(255, 250, 243, 238)
 draw.text(xy(114.217, 30.610), "汉江", font=F_SMALL, fill=(255, 250, 243, 238))
 
 # Redraw town labels above the river strokes for readability.
-draw.text((176, 244), "汉口", font=F_LABEL, fill=COLORS["ink"])
-draw.text((178, 308), "商埠 / 码头 / 租界 / 夜宵", font=F_SMALL, fill=COLORS["muted"])
-draw.text((154, 660), "汉阳", font=F_LABEL, fill=COLORS["ink"])
-draw.text((156, 724), "知音 / 晴川 / 工业 / 汉阳造", font=F_SMALL, fill=COLORS["muted"])
-draw.text((940, 485), "武昌", font=F_LABEL, fill=COLORS["ink"])
-draw.text((942, 549), "省城 / 首义 / 楚文化 / 东湖", font=F_SMALL, fill=COLORS["muted"])
+draw.rounded_rectangle((158, 246, 508, 350), radius=24, fill=(255, 250, 243, 205), outline=COLORS["line"], width=2)
+draw.text((184, 260), "汉口", font=F_LABEL, fill=COLORS["ink"])
+draw.text((286, 276), "商埠 · 码头 · 租界", font=F_SMALL, fill=COLORS["muted"])
+draw.rounded_rectangle((140, 672, 536, 776), radius=24, fill=(255, 250, 243, 205), outline=COLORS["line"], width=2)
+draw.text((166, 686), "汉阳", font=F_LABEL, fill=COLORS["ink"])
+draw.text((268, 702), "知音 · 晴川 · 工业", font=F_SMALL, fill=COLORS["muted"])
+draw.rounded_rectangle((930, 488, 1325, 592), radius=24, fill=(255, 250, 243, 205), outline=COLORS["line"], width=2)
+draw.text((956, 502), "武昌", font=F_LABEL, fill=COLORS["ink"])
+draw.text((1058, 518), "省城 · 首义 · 东湖", font=F_SMALL, fill=COLORS["muted"])
 
 cx, cy = xy(114.289, 30.568)
 draw.ellipse((cx - 13, cy - 13, cx + 13, cy + 13), fill=COLORS["gold"], outline=COLORS["paper"], width=4)
 draw.text((cx + 18, cy - 34), "两江交汇", font=F_TINY, fill=COLORS["ink"])
-
-small_landmark(draw, 114.292, 30.574, "江汉关 / 轮渡", (610, 382))
-small_landmark(draw, 114.310, 30.544, "首义 / 黄鹤楼", (910, 710))
-small_landmark(draw, 114.265, 30.553, "晴川阁", (210, 828))
 
 # North arrow.
 draw.polygon([(1412, 86), (1392, 136), (1432, 136)], fill=COLORS["ink"])
